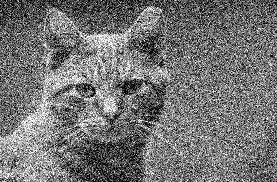
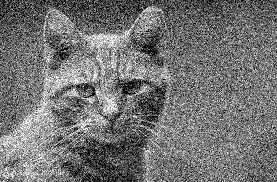
add relevant theory

diff --git a/src/denoising.py b/src/denoising.py
@@ -7,22 +7,30 @@ def compute_difference_matrices(M, N):
     Construye las matrices dispersas de diferencias para una imagen de tamaño M x N.
     """
     # Diferencias horizontales: filas constantes, columnas adyacentes
+    # Crea un vector de unos de tamaño N - 1 para representar diferencias entre columnas adyacentes
     e_h = np.ones(N - 1)
+    # Genera una matriz dispersa donde cada fila calcula la diferencia entre dos columnas consecutivas
     Dh_block = diags([-e_h, e_h], [0, 1], shape=(N - 1, N)).tocsc()
+    # Extiende las diferencias horizontales a toda la imagen
     D_h = kron(identity(M), Dh_block)
 
     # Diferencias verticales: filas adyacentes, columnas constantes
+    # Crea un vector de unos de tamaño M - 1 para representar diferencias entre filas adyacentes
     e_v = np.ones(M - 1)
+    # Genera una matriz dispersa donde cada fila calcula la diferencia entre dos filas consecutivas
     Dv_block = diags([-e_v, e_v], [0, 1], shape=(M - 1, M)).tocsc()
+    # Extiende las diferencias verticales a toda la imagen
     D_v = kron(Dv_block, identity(N))
 
     return D_h, D_v
 
-def denoise_image(noisy_image, lambda_param=5.0):
+def denoise_image(noisy_image, lambda_param):
     """
     Aplica reducción de ruido mediante inversión regularizada usando matrices dispersas.
     """
+    # Obtener dimensiones de la imagen
     M, N = noisy_image.shape
+    # Convertir la imagen a un vector 1D
     x = noisy_image.flatten()
 
     # Construir matrices dispersas
@@ -35,11 +43,11 @@ def denoise_image(noisy_image, lambda_param=5.0):
     I = identity(M * N, format="csc")
 
     # Resolver el sistema de ecuaciones: (I + smooth_term) @ x = b
-    A = I + smooth_term
-    b = x
+    A = I + smooth_term # Matriz del sistema
+    b = x # Vector de la imagen ruidosa
 
     # Usar gradiente conjugado
-    x_denoised, _ = cg(A, b, atol=1e-6, maxiter=1000)
+    x_denoised, _ = cg(A, b, atol=1e-6, maxiter=700)
 
     # Convertir de nuevo a una imagen 2D
     denoised_image = x_denoised.reshape(M, N).clip(0, 255).astype(np.uint8)

diff --git a/main.py b/main.py
@@ -19,7 +19,7 @@ def main():
     show_image(noisy_image, title="Imagen Ruidosa")
 
     # Reducir el ruido utilizando inversión regularizada
-    denoised_image = denoise_image(noisy_image, lambda_param=6.0)
+    denoised_image = denoise_image(noisy_image, lambda_param=4)
 
     # Guardar la imagen denoised
     denoised_image_path = "data/cat_denoised.png"

diff --git a/Guia.md b/Guia.md
@@ -1,0 +1,141 @@
+# Estimación e Inversión 
+
+La **estimación** o **inversión** en problemas de mínimos cuadrados multiobjetivo busca determinar un conjunto de parámetros $x$ a partir de mediciones $y$. Esto se describe con la ecuación: 
+
+$$
+y = Ax + v,
+$$
+
+donde $A$ es una matriz conocida que relaciona los parámetros con las mediciones, y $v$ es un vector de ruido o error. En escenarios ideales, sin ruido y con $A$ de rango completo, $x$ se podría calcular exactamente como $x = A^{\dagger}y$ usando la pseudo-inversa de $A$. Sin embargo, en la práctica, el ruido ($v \neq 0$) y problemas como la dependencia lineal en las columnas de $A$ hacen que este cálculo directo no sea viable, requiriendo métodos más robustos para estimar $x$.  
+
+## Inversión Regularizada  
+
+La **inversión regularizada** aborda estas limitaciones incorporando términos adicionales que reflejan suposiciones o restricciones sobre la solución. Esto se formula minimizando la función de costo:  
+
+$$ 
+\|Ax - y\|^2 + \lambda_2 J_2(x) + \cdots + \lambda_p J_p(x),
+$$  
+
+donde:  
+- $\|Ax - y\|^2$: Garantiza que la solución sea consistente con los datos observados.  
+- $J_i(x)$: Son términos de regularización que reflejan supuestos sobre $x$, como su suavidad o proximidad a valores previos.  
+- $\lambda_i$: Son parámetros que equilibran la importancia relativa entre fidelidad a los datos y regularización.  
+
+**Ejemplos de regularizaciones comunes:**  
+1. **Norma de $x$ ($\|x\|^2$):** Suponer que $x$ tiene valores pequeños.  
+2. **Diferencias finitas ($\|Dx\|^2$):** Favorece soluciones suaves, donde valores consecutivos de $x$ son cercanos.  
+3. **Energía de Dirichlet:** Para grafos, favorece variaciones suaves entre nodos conectados.  
+
+Al elegir $\lambda_i$ adecuadamente, se obtiene una estimación $\hat{x}$ que balancea los datos con las suposiciones impuestas, logrando mayor robustez frente al ruido o singularidades en $A$.  
+
+## De-blurring de Imágenes  
+
+En el contexto del desenfoque de imágenes, $x$ representa la imagen original (convertida a un vector), $A$ modela el desenfoque aplicado, y $y$ es la imagen observada con ruido. La meta es recuperar $x$ minimizando:  
+
+$$
+\|Ax - y\|^2 + \lambda (\|D_hx\|^2 + \|D_vx\|^2),
+$$  
+
+donde $\|Ax - y\|^2$ mide la fidelidad a los datos, y $\|D_hx\|^2 + \|D_vx\|^2$ asegura que la solución sea suave.  
+
+**Construcción de las matrices $D_h$ y $D_v$**  
+
+1. **Diferencias horizontales ($D_h$):**  
+Esta matriz mide diferencias entre píxeles consecutivos en una fila. Si $x$ representa una imagen de tamaño $M \times N$, $D_h$ es de tamaño $M(N-1) \times MN$ . Cada bloque dentro de $D_h$ es:  
+   - $-I$ y $I$ representan que cada diferencia corresponde al valor actual menos el siguiente en la fila.  
+   - La estructura por bloques refleja que las diferencias horizontales son independientes entre filas.  
+
+2. **Diferencias verticales ($D_v$):**  
+Evalúa diferencias entre píxeles consecutivos en una columna. En este caso, la matriz $D_v$ tiene tamaño $(M-1)N \times MN$ y se organiza en bloques diagonales. Cada bloque $D$ calcula las diferencias entre filas consecutivas dentro de una columna.  
+   - El bloque $D$ tiene una estructura escalonada, donde cada fila representa $-1$ en el píxel actual y $1$ en el siguiente.  
+   - La organización en bloques captura que las diferencias verticales están agrupadas por columnas.  
+
+**Razón de estas estructuras:**  
+- $D_h$ y $D_v$ reflejan conexiones locales en la imagen: horizontalmente, cada píxel se compara con el siguiente; verticalmente, con el de abajo.  
+- La regularización $\|D_hx\|^2 + \|D_vx\|^2$ minimiza las variaciones entre píxeles adyacentes, logrando reconstrucciones más suaves que eliminan artefactos del ruido y el desenfoque.  
+
+Este enfoque, conocido como regularización Laplaciana, asegura que la imagen reconstruida sea consistente con los datos, suave, y visualmente plausible.  
+
+
+### Sobre el código de de noising 
+
+### Resumen del código de denoising
+
+#### 1. **Construcción de matrices de diferencias: `compute_difference_matrices(M, N)`**
+Esta función genera matrices dispersas para calcular diferencias horizontales y verticales en una imagen de tamaño $M \times N$.  
+- **Entrada:** Dimensiones de la imagen (M, N).  
+- **Salida:** Matrices dispersas \( D_h \) y \( D_v \).  
+
+- **¿Qué hace?**  
+  - **Diferencias horizontales (\(D_h\)):**  
+    - Para cada fila, mide diferencias entre columnas adyacentes.  
+    - Se construye como el producto de Kronecker entre la matriz identidad (para filas) y un bloque de diferencias en las columnas.  
+  - **Diferencias verticales (\(D_v\)):**  
+    - Para cada columna, mide diferencias entre filas adyacentes.  
+    - Se construye como el producto de Kronecker entre un bloque de diferencias en las filas y la matriz identidad (para columnas).  
+
+- **¿Por qué es importante?** Estas matrices permiten aplicar regularización, asegurando que la imagen procesada sea suave, ya que las diferencias locales (ruido) serán penalizadas.
+
+---
+
+#### 2. **Denoising de la imagen: `denoise_image(noisy_image, lambda_param)`**
+Aplica una técnica de denoising basada en inversión regularizada para suavizar una imagen con ruido.  
+
+- **Entrada:**  
+  - `noisy_image`: Imagen ruidosa como un arreglo 2D.  
+  - `lambda_param`: Parámetro de regularización para controlar la suavidad.  
+
+- **Pasos:**  
+  1. **Convertir la imagen:**  
+     - La imagen \( M \times N \) se aplana a un vector 1D \( x \).  
+  2. **Construir matrices de diferencias:**  
+     - Llama a `compute_difference_matrices` para obtener \( D_h \) y \( D_v \).  
+  3. **Calcular el término de suavidad:**  
+     - Combina las transpuestas y productos de \( D_h \) y \( D_v \), escaladas por el parámetro de regularización \( \lambda \). Esto penaliza las diferencias grandes entre píxeles adyacentes.  
+  4. **Definir el sistema lineal:**  
+     - La matriz \( A = I + \lambda (D_h^T D_h + D_v^T D_v) \) combina fidelidad a los datos (identidad) con suavidad.  
+  5. **Resolver el sistema usando Gradiente Conjugado (CG):**  
+     - Resuelve \( Ax = b \), donde \( b \) es el vector imagen ruidoso \( x \).  
+  6. **Reconstruir la imagen:**  
+     - Convierte \( x \) a una matriz \( M \times N \) y recorta valores entre 0 y 255.  
+
+- **Salida:**  
+  - La imagen denoised como una matriz 2D.
+
+---
+
+#### 3. **Evaluación del denoising: `evaluate_denoising(original, denoised)`**
+Mide la calidad del denoising mediante indicadores de desempeño como **PSNR** y **SSIM**.
+
+- **Entrada:**  
+  - `original`: Imagen original sin ruido.  
+  - `denoised`: Imagen procesada después del denoising.  
+
+- **Indicadores:**  
+  - **PSNR (Peak Signal-to-Noise Ratio):**  
+    - Relación entre la potencia de la señal y el ruido presente. Se mide en decibelios (dB).  
+    - **Interpretación:** Valores altos indican mayor similitud entre las imágenes. Típicamente >30 dB es bueno.  
+  - **SSIM (Structural Similarity Index):**  
+    - Mide la similitud estructural entre las imágenes considerando luminancia, contraste y estructura.  
+    - **Interpretación:** Valores cercanos a 1 indican alta similitud.  
+
+- **Salida:**  
+  - Los valores de PSNR y SSIM para comparar la calidad del denoising.
+
+---
+
+#### 4. **Agregar ruido a la imagen: `add_noise(image, noise_factor=0.2)`**
+Introduce ruido gaussiano a una imagen para simular el efecto de distorsión.
+
+- **Entrada:**  
+  - `image`: Imagen original como matriz 2D.  
+  - `noise_factor`: Factor que escala la magnitud del ruido (por defecto 0.2).  
+
+- **Funcionamiento:**  
+  - Genera un ruido gaussiano usando `np.random.randn`, escalado por `noise_factor` y \(255\).  
+  - Suma el ruido a la imagen original.  
+  - Recorta valores entre 0 y 255 para mantener el rango válido.  
+
+- **Salida:**  
+  - Imagen con ruido como matriz 2D.
+
